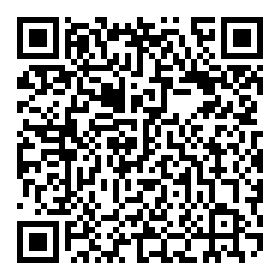
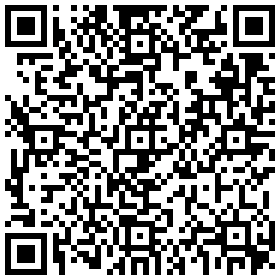
feat: novo Pix (QR, copia e cola e chave) e links de LinkedIn/GitHub no topo

diff --git a/apps/web/src/app/page.tsx b/apps/web/src/app/page.tsx
@@ -1,6 +1,19 @@
 import { DonationBanner } from "@/components/DonationBanner";
 import { ScanApp } from "@/components/ScanApp";
 
+const SOCIAL = [
+  {
+    label: "LinkedIn",
+    href: "https://www.linkedin.com/in/luizgustavocs/",
+    icon: "M4.98 3.5a2.5 2.5 0 1 1 0 5 2.5 2.5 0 0 1 0-5zM3 9.75h4v11H3zm6.5 0h3.8v1.6h.06c.53-1 1.83-2.05 3.77-2.05 4.03 0 4.77 2.6 4.77 6v5.45h-4v-4.83c0-1.15-.02-2.63-1.6-2.63-1.6 0-1.85 1.25-1.85 2.55v4.91h-4z",
+  },
+  {
+    label: "GitHub",
+    href: "https://github.com/luizgustavocs",
+    icon: "M12 2a10 10 0 0 0-3.16 19.49c.5.09.68-.22.68-.48v-1.7c-2.78.6-3.37-1.34-3.37-1.34-.45-1.16-1.11-1.47-1.11-1.47-.91-.62.07-.6.07-.6 1 .07 1.53 1.03 1.53 1.03.9 1.52 2.34 1.08 2.91.83.09-.65.35-1.08.63-1.33-2.22-.25-4.55-1.11-4.55-4.94 0-1.09.39-1.98 1.03-2.68-.1-.25-.45-1.27.1-2.65 0 0 .84-.27 2.75 1.02a9.56 9.56 0 0 1 5 0c1.91-1.29 2.75-1.02 2.75-1.02.55 1.38.2 2.4.1 2.65.64.7 1.03 1.59 1.03 2.68 0 3.84-2.34 4.68-4.57 4.93.36.31.68.92.68 1.85v2.74c0 .27.18.58.69.48A10 10 0 0 0 12 2z",
+  },
+];
+
 const FEATURES = [
   {
     icon: "M4 6h16M4 12h10M4 18h7",
@@ -27,7 +40,24 @@ const FEATURES = [
 export default function Home() {
   return (
     <>
-      <main className="mx-auto max-w-3xl px-4 pb-24 pt-14 sm:pt-20">
+      <nav aria-label="Contato" className="no-print mx-auto flex max-w-5xl justify-end gap-1 px-4 pt-4">
+        {SOCIAL.map((s) => (
+          <a
+            key={s.label}
+            href={s.href}
+            target="_blank"
+            rel="noopener noreferrer"
+            className="inline-flex items-center gap-2 rounded-full px-3 py-1.5 text-sm font-medium text-muted transition hover:bg-surface hover:text-ink"
+          >
+            <svg viewBox="0 0 24 24" className="size-4" fill="currentColor" aria-hidden>
+              <path d={s.icon} />
+            </svg>
+            {s.label}
+          </a>
+        ))}
+      </nav>
+
+      <main className="mx-auto max-w-3xl px-4 pb-24 pt-8 sm:pt-14">
         <section className="no-print mb-10 text-center sm:mb-12">
           <h1 className="text-4xl font-semibold tracking-tight text-balance sm:text-5xl">
             Seu site está seguro?

diff --git a/apps/web/src/components/DonationBanner.tsx b/apps/web/src/components/DonationBanner.tsx
@@ -4,7 +4,8 @@ import { useEffect, useState } from "react";
 import { CopyButton } from "./CopyButton";
 
 const PIX_COPIA_E_COLA =
-  "00020126440014br.gov.bcb.pix01226379769@vakinha.com.br5204000053039865802BR5901N6001C62070503***63046A42";
+  "00020126580014BR.GOV.BCB.PIX013665c0eda9-a9bf-4125-ba01-fdfba3db83525204000053039865802BR5901N6001C62070503***6304B887";
+const PIX_KEY = "65c0eda9-a9bf-4125-ba01-fdfba3db8352";
 
 const STORAGE_KEY = "raiox:pix-minimized";
 
@@ -77,6 +78,14 @@ export function DonationBanner() {
 
       <div className="mt-3 flex justify-center">
         <CopyButton text={PIX_COPIA_E_COLA} label="Copiar Pix copia e cola" variant="solid" />
+      </div>
+
+      <div className="mt-3 border-t border-line pt-3">
+        <p className="text-[11px] font-medium uppercase tracking-wide text-muted">Chave Pix</p>
+        <div className="mt-1 flex items-center gap-2">
+          <code className="min-w-0 flex-1 break-all font-mono text-[11px] leading-snug">{PIX_KEY}</code>
+          <CopyButton text={PIX_KEY} label="Copiar" />
+        </div>
       </div>
     </aside>
   );
